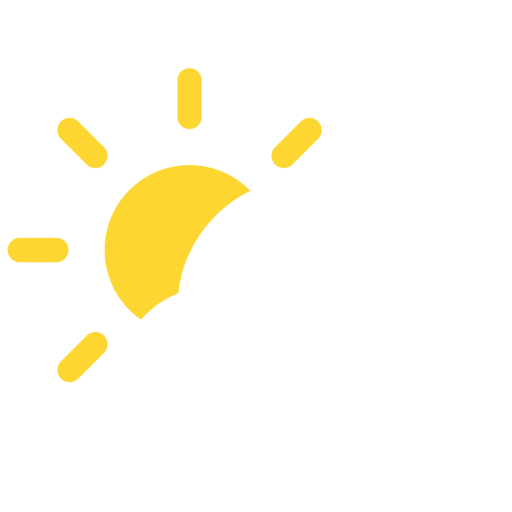
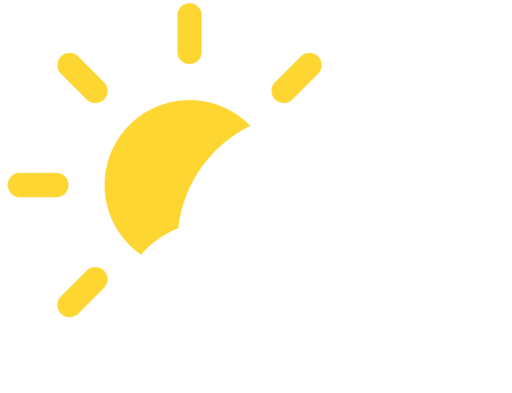
Improvements here (and there!)
- pixel perfect grid mover
- pixel perfect layout icons, rephrased tooltip
- improved titles for element-mover
- removed top and bottom borders on weather icons for better #main centering

diff --git a/src/styles/grid.scss b/src/styles/grid.scss
@@ -150,6 +150,22 @@
 		cursor: auto;
 	}
 
+	#mover-titles {
+		h2 {
+			margin-top: 10px;
+			font-size: 18px;
+		}
+
+		h3 {
+			font-weight: 400;
+			font-size: 15px;
+		}
+	}
+
+	h3 {
+		opacity: .7;
+	}
+
 	h2 {
 		text-transform: capitalize;
 	}
@@ -169,7 +185,7 @@
 	button {
 		border: none;
 		border-radius: 0.2em;
-		min-width: 2em;
+		min-width: 2.5em;
 		color: #666;
 		background-color: transparent;
 
@@ -221,6 +237,10 @@ button.grid-spanner {
 #grid-mover {
 	place-content: center;
 	grid-template-columns: 80px;
+
+	> button {
+		margin: 0 25px;
+	}
 }
 
 #grid-spanner-container {
@@ -259,21 +279,17 @@ button.grid-spanner {
 	button {
 		display: grid;
 		padding: 0;
-		margin: 4px;
+		border: 0;
+		margin: 4px 8px;
 		width: 60px;
 		overflow: hidden;
 		border-radius: 4px;
-		border: 2px solid #666;
+		outline: 2px solid #666;
+		border: 0;
 
-		&.selected,
-		&.selected div {
-			border-color: var(--blue);
-		}
-
-		div {
-			height: 2em;
+		div:not(.selected) {
+			height: 2.2em;
 			width: 100%;
-			border-right: 2px solid #666;
 		}
 
 		&[data-layout='single'] {
@@ -282,18 +298,44 @@ button.grid-spanner {
 
 		&[data-layout='double'] {
 			grid-template-columns: 1fr 1fr;
+
+			div {
+				outline: 1px solid #666;
+			}
+
+			&.selected div {
+				outline-width: 2px;
+			}
 		}
 
-		&[data-layout='double-left'] {
-			grid-template-columns: 2fr 1fr;
-		}
+		// &[data-layout='double-left'] {
+		// 	grid-template-columns: 2fr 1fr;
+		// }
 
-		&[data-layout='double-right'] {
-			grid-template-columns: 1fr 2fr;
-		}
+		// &[data-layout='double-right'] {
+		// 	grid-template-columns: 1fr 2fr;
+		// }
 
 		&[data-layout='triple'] {
 			grid-template-columns: 1fr 1fr 1fr;
+
+			div:nth-child(2) {
+				outline: 2px solid #666;
+			}
+
+			&.selected div:nth-child(2) {
+				outline-width: 4px;
+			}
+		}
+
+		&.selected {
+			outline-width: 4px;
+		}
+
+		&.selected,
+		&.selected div {
+			// not sure why color from #settings button gets priority
+			outline-color: var(--blue)!important;
 		}
 	}
 }

diff --git a/src/settings.html b/src/settings.html
@@ -89,14 +89,14 @@
 			<div>
 				<div class="wrapper">
 					<span>
-						<span class="trn">Page layout</span>
+						<span class="trn">Layout</span>
 						<button class="tooltip ttgrid" aria-label="Tips on page grid layout">?</button>
 					</span>
 				</div>
 
 				<div class="tooltiptext ttgrid">
-					<span class="trn">Here you can move page elements. </span>
-					<span class="trn instructions">Edit button opens a toolbox. Click on page element to select. </span>
+					<span class="trn">Customise how and where widgets appear.</span>
+					<span class="trn instructions">Click edit and select a widget to modify.</span>
 					<a class="trn" href="https://bonjourr.fr/misc" rel="noreferrer noopener">Learn more</a>
 				</div>
 

diff --git a/src/scripts/moveElements.ts b/src/scripts/moveElements.ts
@@ -574,7 +574,6 @@ export default function moveElements(
 				if (!isEditing() || !elementId) {
 					return
 				}
-				console.log('ah')
 
 				const id = elementId as MoveKeys
 
@@ -582,11 +581,13 @@ export default function moveElements(
 				buttonControl.span(id)
 				buttonControl.grid(id)
 
+				removeSelection()
+
 				document.querySelector('#move-overlay-' + id)!.classList.add('selected') // add clicked
 
 				$('element-mover')?.classList.add('active');
 
-				document.querySelector('#element-mover h2')!.innerHTML = `${id} widget`;
+				document.querySelector('#mover-titles h2')!.innerHTML = `${id} widget`;
 				activeID = id
 			}
 

diff --git a/src/index.html b/src/index.html
@@ -83,7 +83,12 @@
 
 		<main id="interface" class="init">
 			<div id="element-mover">
-				<h2>Move widget</h2>
+
+				<div id="mover-titles">
+					<h3>Editing</h3>
+					<h2></h2>
+				</div>
+
 				<div>
 					<p>Grid position</p>
 					<div id="grid-mover" class="mover">

diff --git a/src/styles/_dark.scss b/src/styles/_dark.scss
@@ -21,9 +21,10 @@
 	}
 
 	#grid-layout button:not(.selected) {
-		border-color: #eee;
+		outline-color: #eee;
+		
 		div {
-			border-color: #eee;
+			outline-color: #eee;
 		}
 	}
 

diff --git a/src/styles/style.scss b/src/styles/style.scss
@@ -252,7 +252,6 @@
 				margin-top: 1em;
 
 				img {
-					height: 3.6em;
 					width: 3.6em;
 					border: none;
 					padding-right: 10px;
